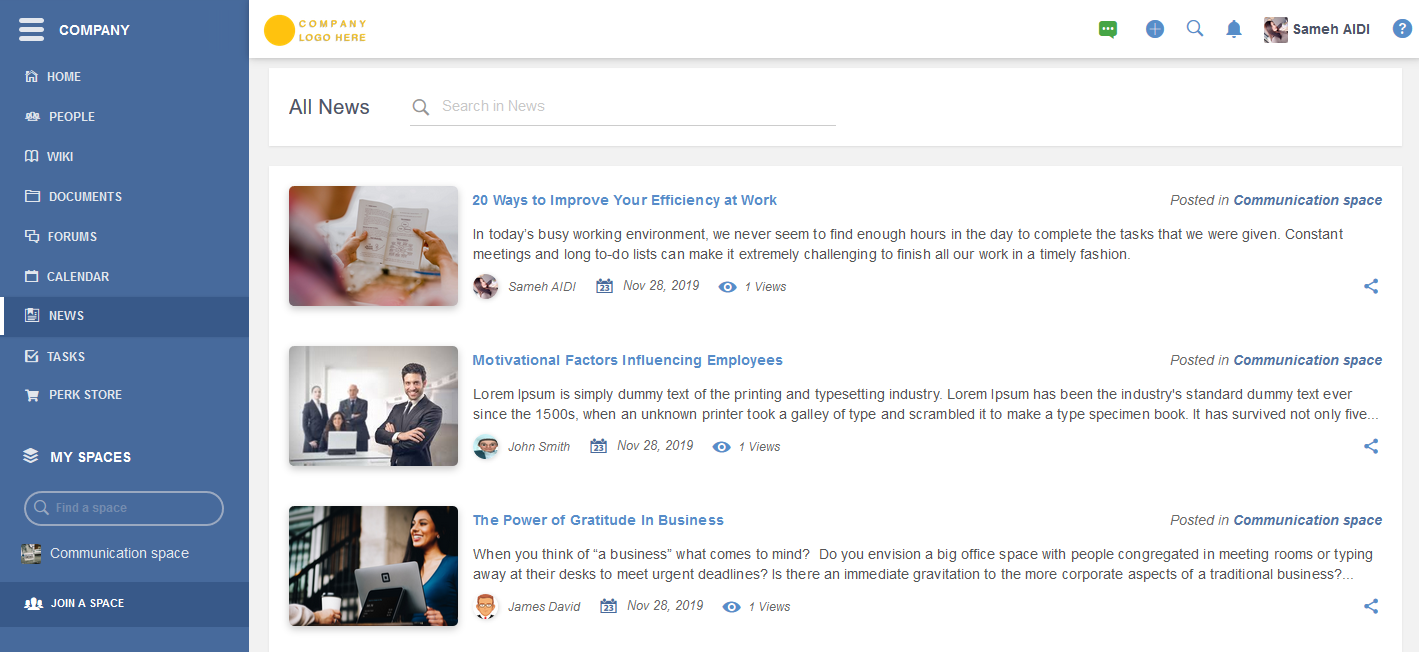
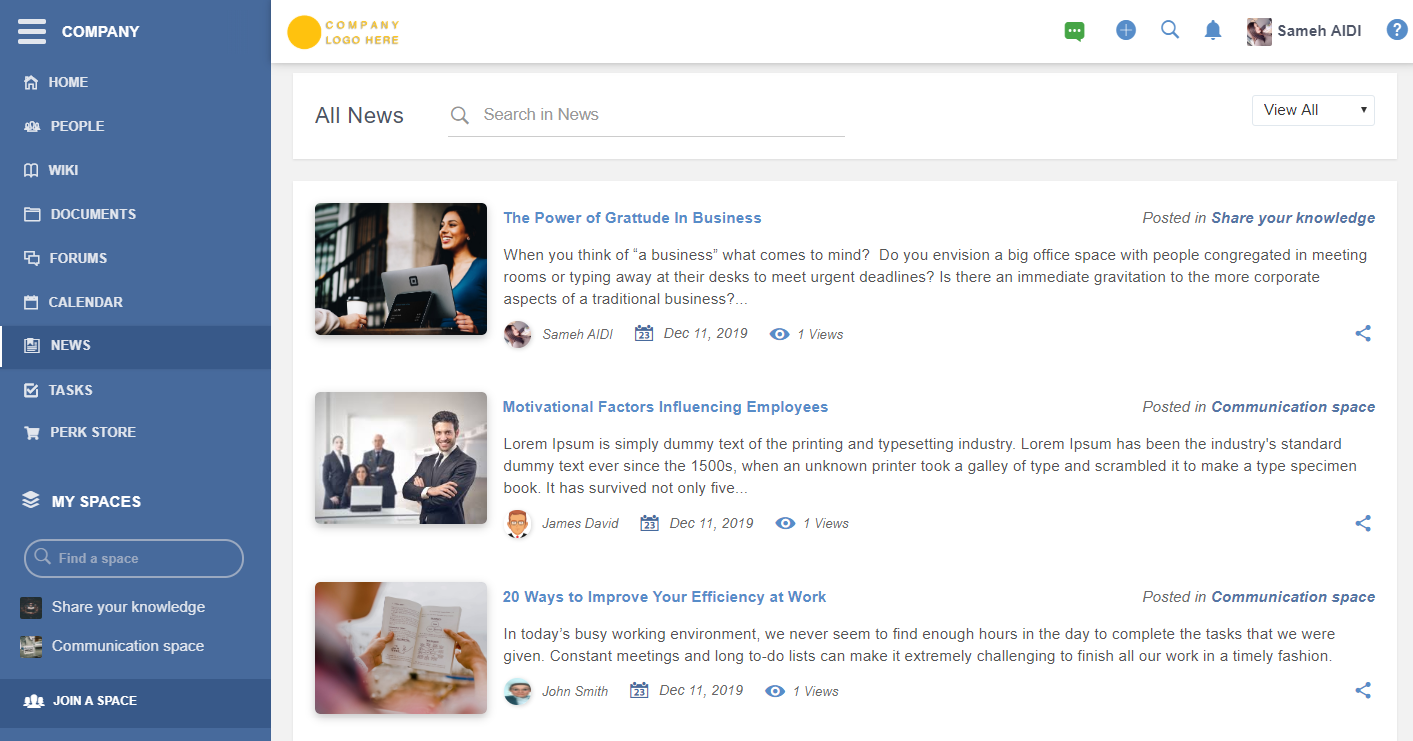
News application - Pinned news

diff --git a/docs/GettingStarted.rst b/docs/GettingStarted.rst
@@ -1347,12 +1347,14 @@ This application is accessible through the ``News`` link  in the left navigation
 
 |image187|
 
-The page displays the list of "All News". 
+The page displays by default the list of "All News". For each article you can see the title, the illustration, the first words of the summary or the article body, the author, the publication date, the number of views and the information about the source (space).
+You can also share the displayed articles as explained in the `Sharing a News`_ chapter.
 
 |image188|
 
-For each article you can see the title, the illustration, the first words of the summary or the article body, the author, the publication date, the number of views and the information about the source (space).
-You can also share the displayed articles as explained in the `Sharing a News`_ chapter.
+Search in News application
+^^^^^^^^^^^^^^^^^^^^^^^^^^
+
 You can look for articles easily using the available search bar in the topbar of the application. It is possible to search by the article title, its author or content.
 
 |image189|
@@ -1360,6 +1362,18 @@ You can look for articles easily using the available search bar in the topbar of
 |image190|
 
 |image191|
+
+
+News application views
+^^^^^^^^^^^^^^^^^^^^^^^
+
+Different views are available from News application so you can easily find pinned articles, your posted articles, your scheduled articles, your drafts or your archived articles.
+
+To display the pinned news list, all you have to do is to choose this option from the dropdown menu of the application topbar.
+
+|image192|
+
+After applying this view, the list will only contain the articles that have been pinned on the home page. 
 
 	
 .. _Formatting-toolbar:
@@ -2216,6 +2230,6 @@ to display the original timestamp of the comment.
 .. |image189| image:: images/sharenews/search_title.png
 .. |image190| image:: images/sharenews/search_user.png
 .. |image191| image:: images/sharenews/search_content.png
-
+.. |image192| image:: images/sharenews/app_pinned.png
 
 
